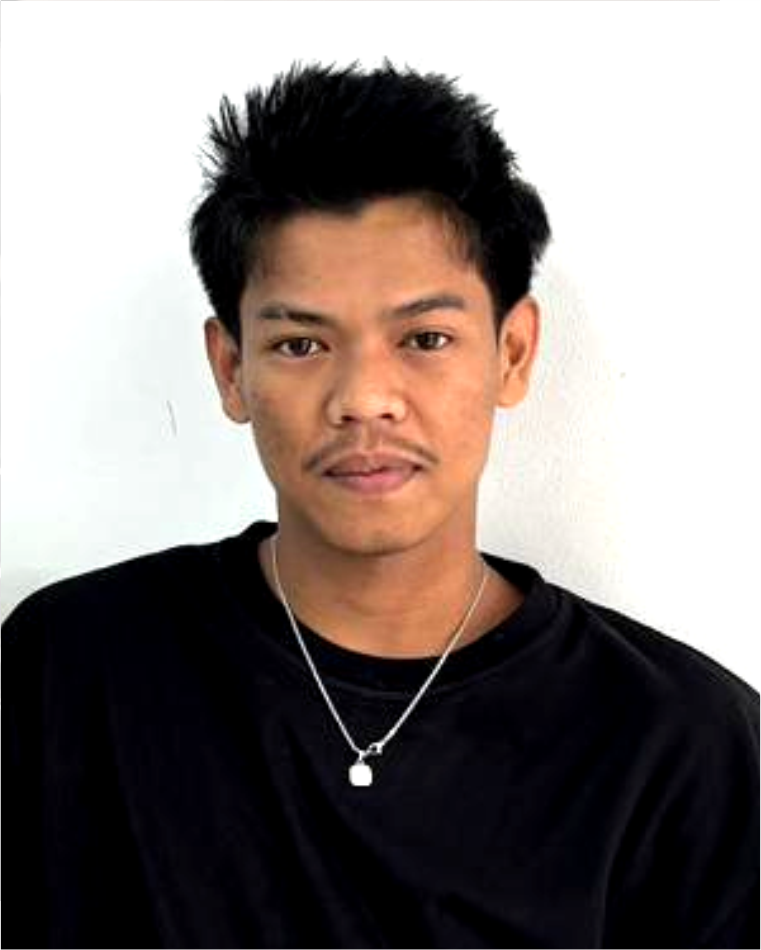
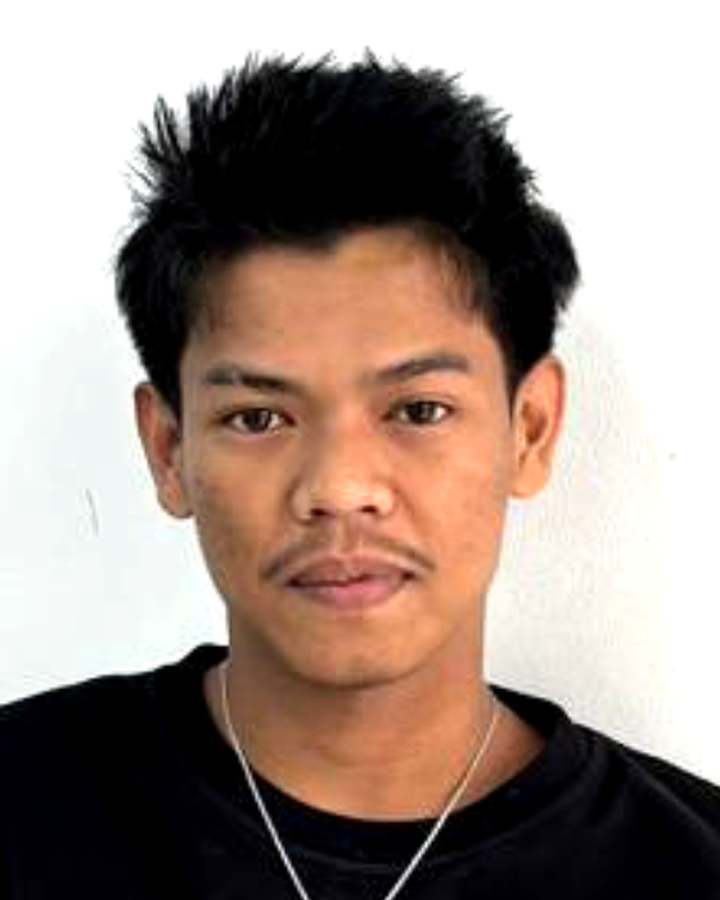
fix(capster): potret dipangkas jadi kepala-bahu, pita hitam hilang
Bingkai lama menyertakan dada berkaus hitam sampai tepi bawah, yang
pada kartu terbaca sebagai pita hitam pekat — paling kentara pada
Cena yang bagian bawahnya nyaris #000. Ketiga foto dipangkas ke
komposisi kepala-dan-bahu yang seragam (rasio 4:5 tetap), jadi kaus
hitam tinggal sisa tipis di tepi. Penanda versi ?v=6 -> ?v=7.

diff --git a/landing.html b/landing.html
@@ -545,19 +545,19 @@
       <h2 class="muncul">Our Capster</h2>
       <div class="kapster" id="kapsterDaftar">
         <div class="kapster-orang muncul">
-          <div class="avatar" aria-hidden="true"><picture><source srcset="assets/cena.webp?v=6" type="image/webp" /><img src="assets/cena.png?v=6" alt="Cena" loading="lazy" /></picture></div>
+          <div class="avatar" aria-hidden="true"><picture><source srcset="assets/cena.webp?v=7" type="image/webp" /><img src="assets/cena.png?v=7" alt="Cena" loading="lazy" /></picture></div>
           <div class="kapster-nama">Cena</div>
           <div class="kapster-peran">Capster</div>
           <button type="button" class="pil pil-garis" data-kapster="Cena">Pilih Cena</button>
         </div>
         <div class="kapster-orang muncul">
-          <div class="avatar" aria-hidden="true"><picture><source srcset="assets/lukman.webp?v=6" type="image/webp" /><img src="assets/lukman.png?v=6" alt="Lukman" loading="lazy" /></picture></div>
+          <div class="avatar" aria-hidden="true"><picture><source srcset="assets/lukman.webp?v=7" type="image/webp" /><img src="assets/lukman.png?v=7" alt="Lukman" loading="lazy" /></picture></div>
           <div class="kapster-nama">Lukman</div>
           <div class="kapster-peran">Capster</div>
           <button type="button" class="pil pil-garis" data-kapster="Lukman">Pilih Lukman</button>
         </div>
         <div class="kapster-orang muncul">
-          <div class="avatar" aria-hidden="true"><picture><source srcset="assets/wanda.webp?v=6" type="image/webp" /><img src="assets/wanda.png?v=6" alt="Wanda" loading="lazy" /></picture></div>
+          <div class="avatar" aria-hidden="true"><picture><source srcset="assets/wanda.webp?v=7" type="image/webp" /><img src="assets/wanda.png?v=7" alt="Wanda" loading="lazy" /></picture></div>
           <div class="kapster-nama">Wanda</div>
           <div class="kapster-peran">Capster</div>
           <button type="button" class="pil pil-garis" data-kapster="Wanda">Pilih Wanda</button>
@@ -816,8 +816,8 @@
 
     function gambarKapster(batang, nama) {
       return '<picture>'
-           + '<source srcset="' + batang + '.webp?v=6" type="image/webp" />'
-           + '<img src="' + batang + '.png?v=6" alt="' + esc(nama) + '" loading="lazy" />'
+           + '<source srcset="' + batang + '.webp?v=7" type="image/webp" />'
+           + '<img src="' + batang + '.png?v=7" alt="' + esc(nama) + '" loading="lazy" />'
            + '</picture>';
     }
 

diff --git a/pos.html b/pos.html
@@ -2459,8 +2459,8 @@
         /* WebP dulu, PNG sebagai cadangan: Safari baru mengenal WebP sejak
            iOS 14, dan iPad kasir yang lebih tua harus tetap melihat wajahnya. */
         const avatarHtml = foto
-          ? `<picture><source srcset="${foto}.webp?v=6" type="image/webp" />`
-            + `<img src="${foto}.png?v=6" alt="${escapeHtml(c.name)}" loading="lazy" /></picture>`
+          ? `<picture><source srcset="${foto}.webp?v=7" type="image/webp" />`
+            + `<img src="${foto}.png?v=7" alt="${escapeHtml(c.name)}" loading="lazy" /></picture>`
           : escapeHtml(initial);
         const card = document.createElement('div');
         card.className = `capster-card ${isSel ? 'is-selected' : ''}`;

diff --git a/rekap.html b/rekap.html
@@ -3063,7 +3063,7 @@
               <div class="capster-avatar-sm">${(() => {
                 const foto = { "cena": "assets/cena", "lukman": "assets/lukman", "wanda": "assets/wanda" }[(name || "").toLowerCase().trim()];
                 return foto
-                  ? `<picture><source srcset="${foto}.webp?v=6" type="image/webp" /><img src="${foto}.png?v=6" alt="${name}" loading="lazy" /></picture>`
+                  ? `<picture><source srcset="${foto}.webp?v=7" type="image/webp" /><img src="${foto}.png?v=7" alt="${name}" loading="lazy" /></picture>`
                   : name.charAt(0).toUpperCase();
               })()}</div>
               <div>

diff --git a/capster.html b/capster.html
@@ -949,8 +949,8 @@
       const capKey = (me.name || '').toLowerCase().trim();
       if (FOTO_KAPSTER[capKey]) {
         $('avatar').innerHTML = '<picture>'
-          + '<source srcset="' + FOTO_KAPSTER[capKey] + '.webp?v=6" type="image/webp" />'
-          + '<img src="' + FOTO_KAPSTER[capKey] + '.png?v=6" alt="' + (me.name || '') + '" />'
+          + '<source srcset="' + FOTO_KAPSTER[capKey] + '.webp?v=7" type="image/webp" />'
+          + '<img src="' + FOTO_KAPSTER[capKey] + '.png?v=7" alt="' + (me.name || '') + '" />'
           + '</picture>';
       } else {
         $('avatar').textContent = me.name.charAt(0).toUpperCase();
